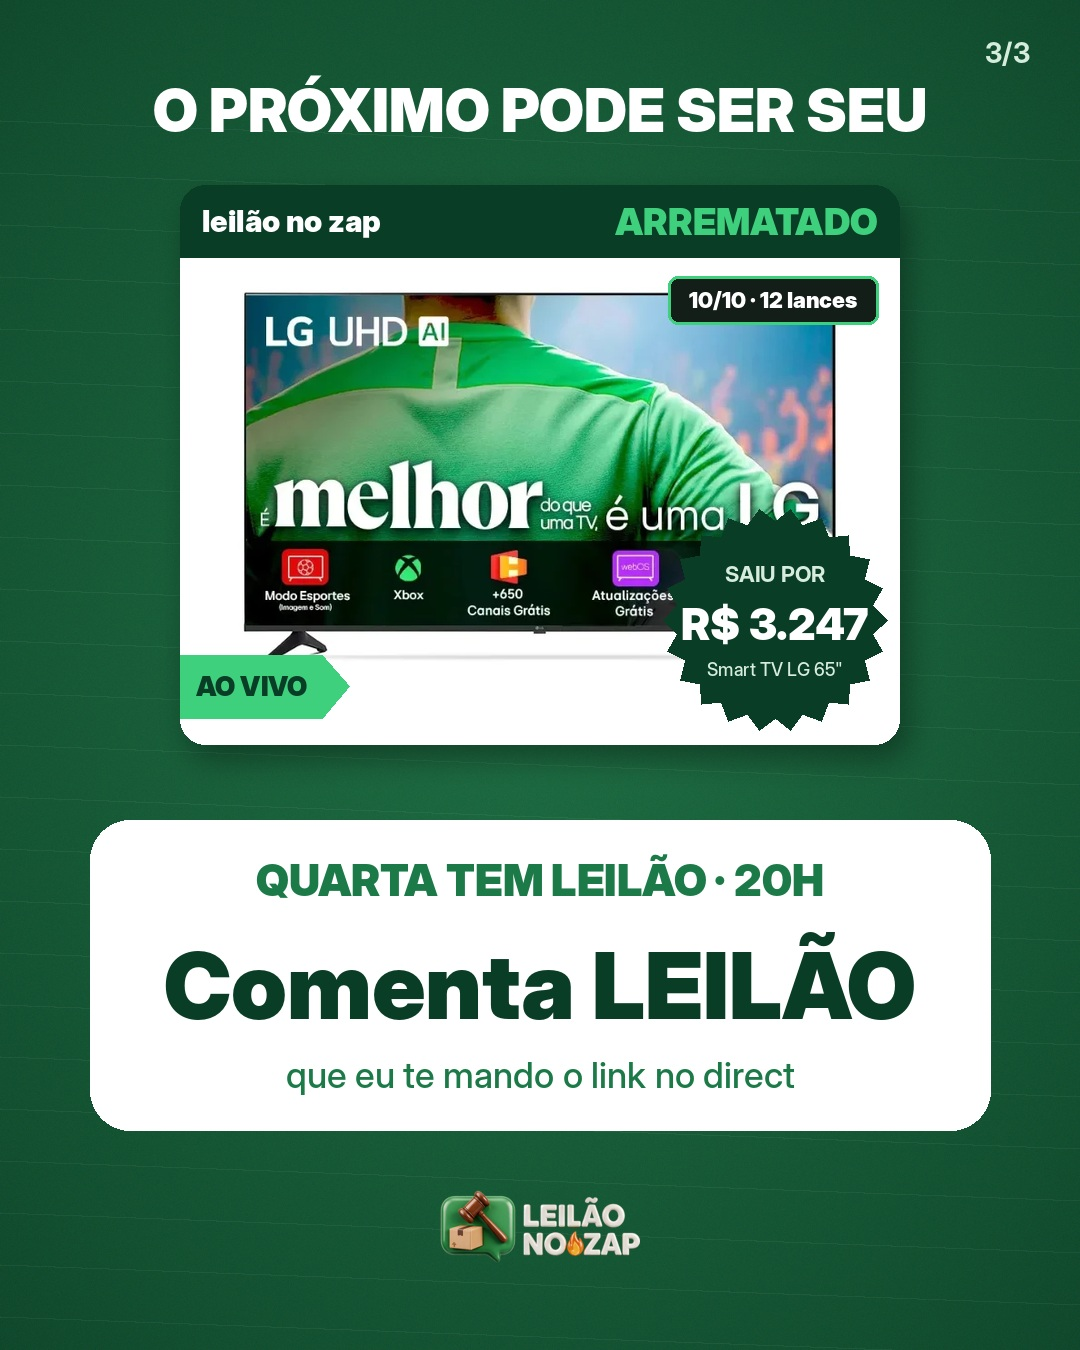
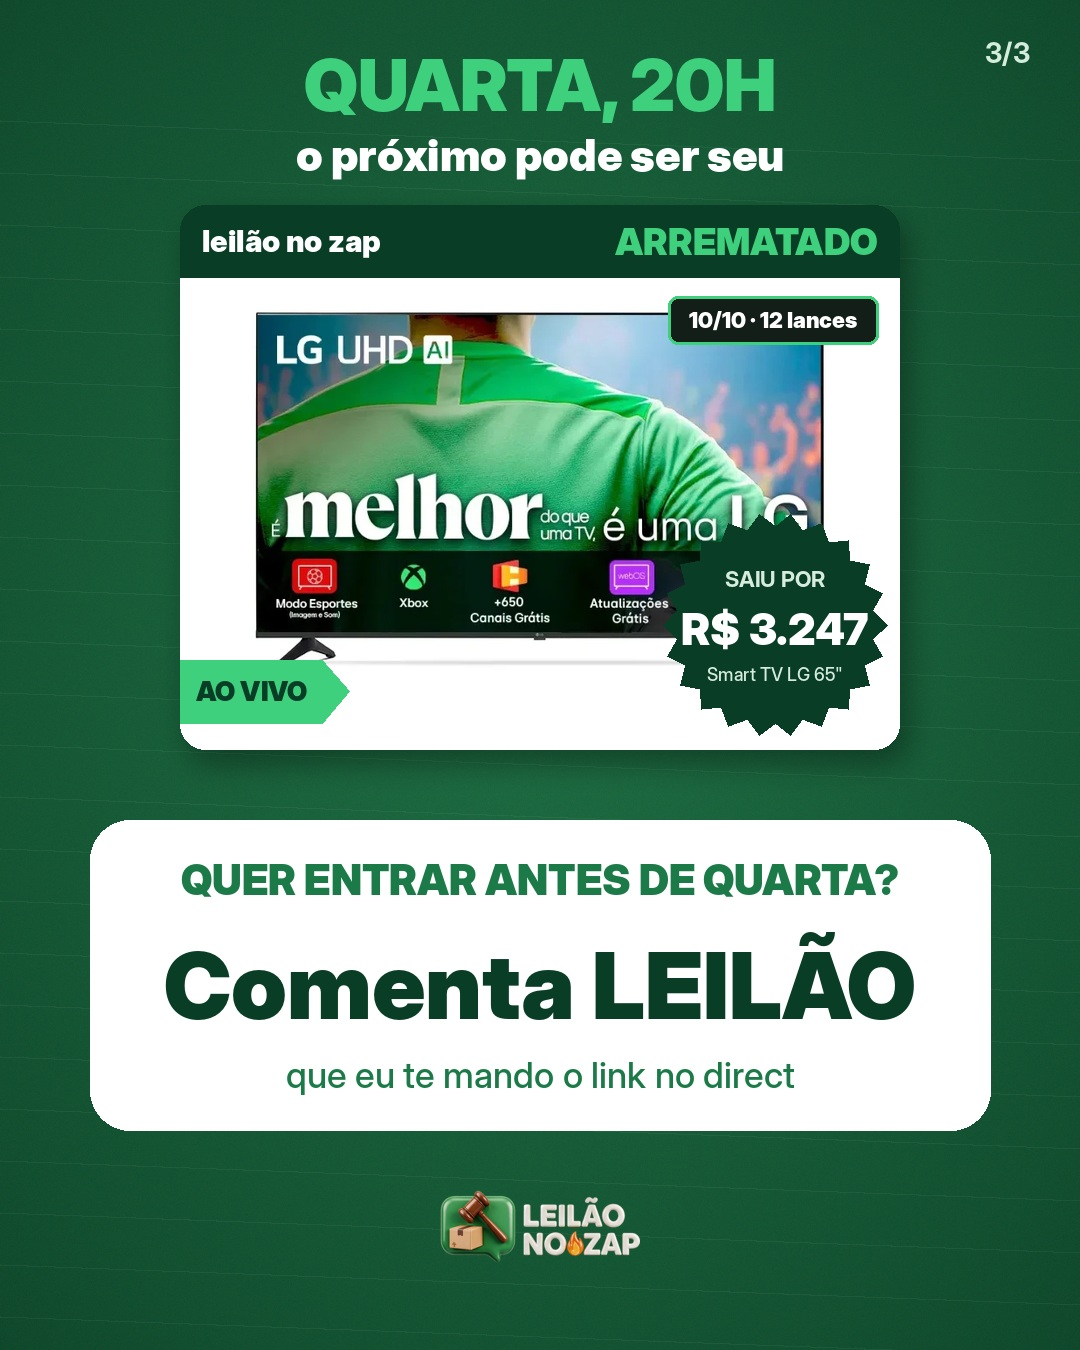
Carrossel dos arrematados com os 3 Us (útil, único, urgente) nas páginas
Claude-Session: https://claude.ai/code/session_01JihU9VfVTYTrMqQpApFEjH

Changed region(s): [[0.1222, 0.0311, 0.8556, 0.56], [0.1528, 0.6222, 0.825, 0.6844]]

diff --git a/marketing/semana-2026-11-16/arrematados/fonte/carrossel_arrematados.py b/marketing/semana-2026-11-16/arrematados/fonte/carrossel_arrematados.py
@@ -21,23 +21,23 @@ def pil(d, cy, t, f, fu, co, px=34):
     w = d.textlength(t, font=f); d.rounded_rectangle((W / 2 - w / 2 - px, cy - f.size * .85, W / 2 + w / 2 + px, cy + f.size * .85), f.size, fill=fu); d.text((W / 2, cy), t, font=f, fill=co, anchor='mm')
 # 1 · capa
 b = fundo(); d = ImageDraw.Draw(b); pag(d, 1)
-d.text((W / 2, 95), 'POR QUANTO SAÍRAM', font=F('Black', 66), fill=BR, anchor='mm'); d.text((W / 2, 170), 'NO LEILÃO?', font=F('Black', 66), fill=NEON, anchor='mm')
+d.text((W / 2, 95), 'QUANTO SAIU CADA UM', font=F('Black', 64), fill=BR, anchor='mm'); d.text((W / 2, 170), 'NO LEILÃO? 👀'.replace(' 👀', ''), font=F('Black', 64), fill=NEON, anchor='mm')   # útil: valor real
 sombra(b, 60, 235, card('pcx', 960, 830)); d = ImageDraw.Draw(b)
-pil(d, 1185, 'arrasta pro lado  →', F('Bold', 34), MENTA, VE, 40)
-d.text((W / 2, 1270), 'valores reais do sistema · tudo ao vivo', font=F('Medium', 28), fill=MENTA, anchor='mm')
+pil(d, 1180, 'valores reais · quem decide o preço é você', F('Bold', 32), BR, VE, 36)   # útil + único
+d.text((W / 2, 1268), 'arrasta pro lado  →', font=F('Bold', 32), fill=MENTA, anchor='mm')
 b.convert('RGB').save(f'{OUT}/CARROSSEL-arrematados-1.jpg', quality=94)
 # 2 · iPhones, MacBook, PS5
 b = fundo(); d = ImageDraw.Draw(b); pag(d, 2)
-d.text((W / 2, 110), 'iPHONE, MACBOOK, PS5…', font=F('Black', 60), fill=BR, anchor='mm')
-sombra(b, 60, 185, card('iphone18', 465, 560)); sombra(b, 555, 185, card('iphone17', 465, 560))
+d.text((W / 2, 85), 'iPHONE, MACBOOK, PS5…', font=F('Black', 58), fill=BR, anchor='mm'); d.text((W / 2, 150), 'tudo novo, ao vivo, sem preço de etiqueta', font=F('Medium', 30), fill=MENTA, anchor='mm')   # único
+sombra(b, 60, 195, card('iphone18', 465, 555)); sombra(b, 555, 195, card('iphone17', 465, 555))
 sombra(b, 60, 790, card('macbook', 465, 500)); sombra(b, 555, 790, card('ps5', 465, 500))
 b.convert('RGB').save(f'{OUT}/CARROSSEL-arrematados-2.jpg', quality=94)
 # 3 · TV + pedido único
 b = fundo(); d = ImageDraw.Draw(b); pag(d, 3)
-d.text((W / 2, 110), 'O PRÓXIMO PODE SER SEU', font=F('Black', 60), fill=BR, anchor='mm')
-sombra(b, 180, 185, card('tv', 720, 560)); d = ImageDraw.Draw(b)
+d.text((W / 2, 85), 'QUARTA, 20H', font=F('Black', 72), fill=NEON, anchor='mm'); d.text((W / 2, 155), 'o próximo pode ser seu', font=F('Black', 44), fill=BR, anchor='mm')   # urgente
+sombra(b, 180, 205, card('tv', 720, 545)); d = ImageDraw.Draw(b)
 d.rounded_rectangle((90, 820, W - 90, 1130), 40, fill=BR)
-d.text((W / 2, 880), 'QUARTA TEM LEILÃO · 20H', font=F('Black', 44), fill=(27, 122, 72), anchor='mm')
+d.text((W / 2, 880), 'QUER ENTRAR ANTES DE QUARTA?', font=F('Black', 42), fill=(27, 122, 72), anchor='mm')
 d.text((W / 2, 985), 'Comenta LEILÃO', font=F('Black', 92), fill=VE, anchor='mm')
 d.text((W / 2, 1075), 'que eu te mando o link no direct', font=F('Medium', 36), fill=(27, 122, 72), anchor='mm')
 lg = Image.open('/home/user/Leil-onozaplivoo/marketing/marca/logo-horizontal-transparente.png').convert('RGBA'); lg.thumbnail((200, 200)); b.alpha_composite(lg, ((W - lg.width) // 2, 1190))
